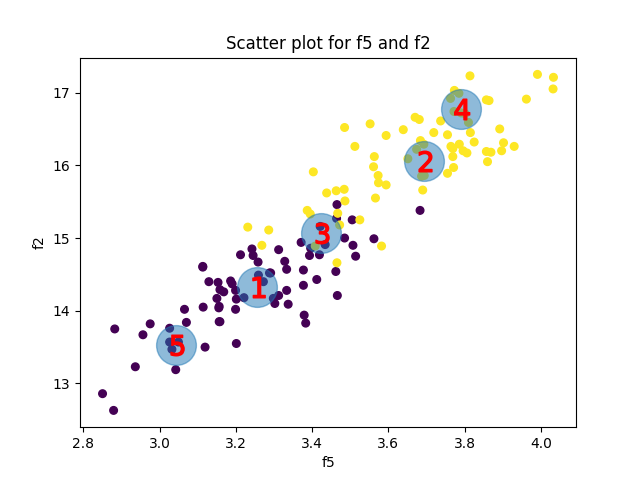
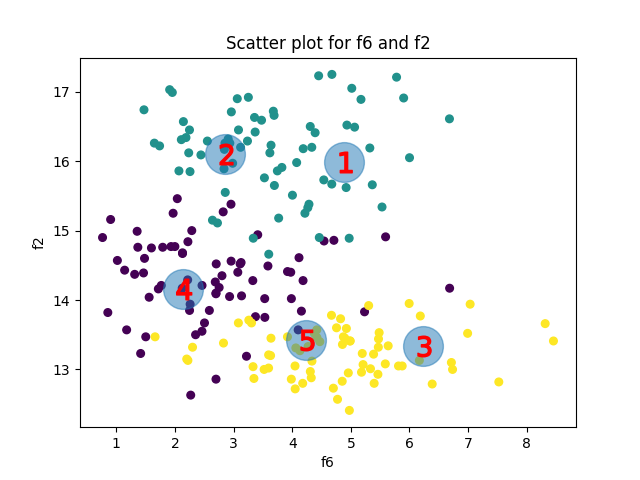
Finished question 3.3 of seeds

diff --git a/hw12_seeds.py b/hw12_seeds.py
@@ -94,6 +94,7 @@ print("Using the knee method, the point of diminishing returns seems to be aroun
 print("\n")
 # Question 3.2 ========================================================================================
 print("Question 3.2:")
+df = pd.read_excel("seeds_dataset.xlsx", header=None, names=['f1', 'f2', 'f3', 'f4', 'f5', 'f6', 'f7', 'L'])
 kmeans_clf = KMeans(n_clusters=5)
 
 rand_feat_1 = random.randrange(7)
@@ -110,7 +111,7 @@ rand_feat_1 = "f" + str(rand_feat_1)
 rand_feat_2 = "f" + str(rand_feat_2)
 
 X32 = df[[rand_feat_1, rand_feat_2]]
-kmeans_clf.fit(X32)
+Y32 = kmeans_clf.fit_predict(X32)
 
 
 scatter_plot = plt.figure()
@@ -132,6 +133,35 @@ print("Looking at multiple iterations of the Q3.2 scatter plot it immediately ju
 	" most of the feature combbinations seem to have a pattern that could be predicted by linear"
 	" or logistic regression")
 
+print("\n")
+# Question 3.3 ========================================================================================
+print("Question 3.3:")
+
+
+cluster_analysis = [[0, 0, 0], [0, 0, 0], [0, 0, 0], [0, 0, 0], [0, 0, 0]]
+
+i = 0
+while i < 210:
+	cluster_analysis[Y32[i]][df['L'].iloc[i] - 1] += 1
+	i += 1
+
+i = 0
+while i < 5:
+	if cluster_analysis[i][0] > cluster_analysis[i][1] and cluster_analysis[i][0] > cluster_analysis[i][2]:
+		cluster_label = "Kama"
+	elif cluster_analysis[i][1] > cluster_analysis[i][0] and cluster_analysis[i][1] > cluster_analysis[i][2]:
+		cluster_label = "Rosa"
+	elif cluster_analysis[i][2] > cluster_analysis[i][0] and cluster_analysis[i][2] > cluster_analysis[i][1]:
+		cluster_label = "Canadian"
+	print("Cluster " + str(i + 1))
+	print("Label: " + cluster_label)
+	print("Centroid: " + str(cluster_df.iloc[i].values) + "\n")
+	i += 1
+
+
+print("\n")
+# Question 3.4 ========================================================================================
+print("Question 3.4:")
 
 
 
